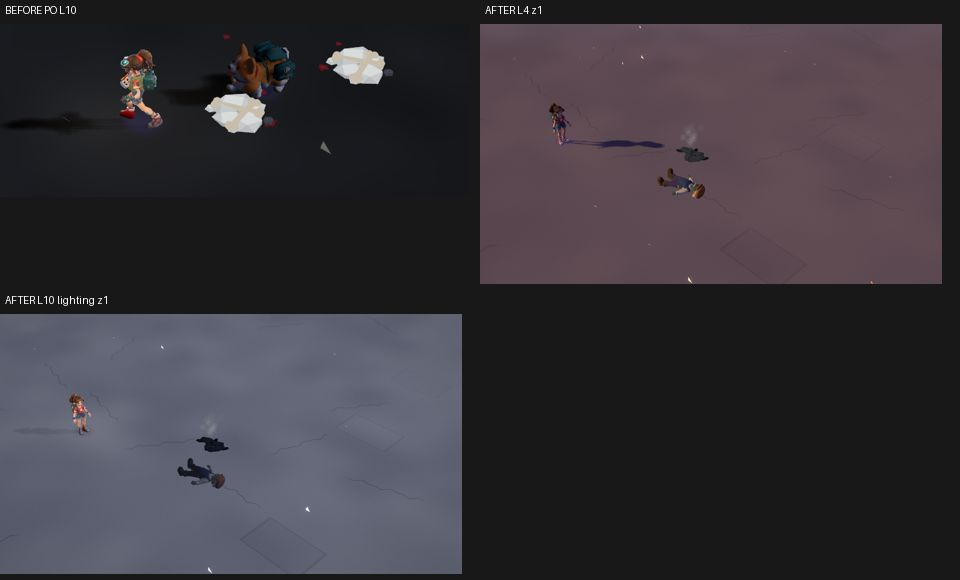
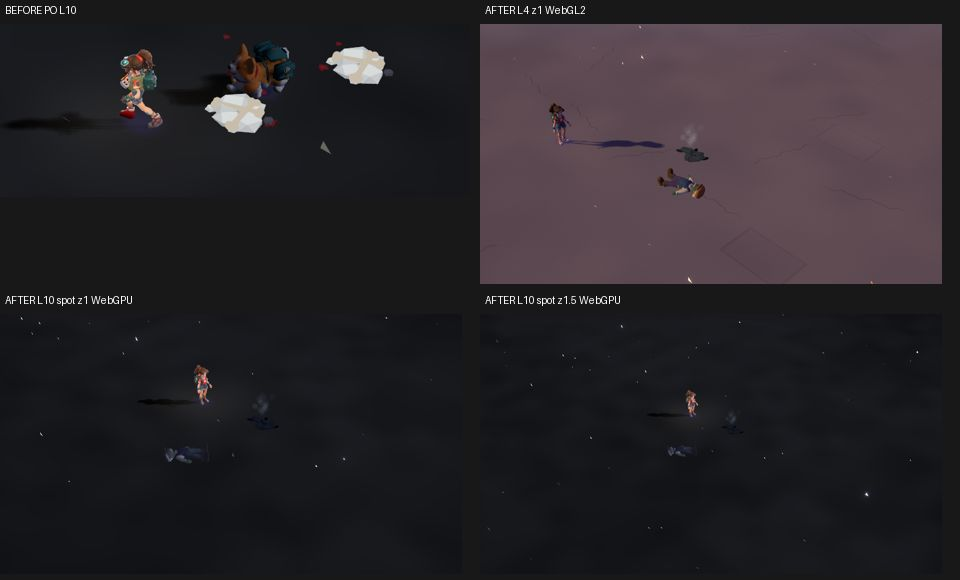
Include L10 location comparisons in sheet

diff --git a/docs/reports/s207-ashfix/README.md b/docs/reports/s207-ashfix/README.md
@@ -45,3 +45,5 @@ Checkpoint investigation: `cure-pace-15` is generated by `curePaceCheckpoints` i
 Further investigation explains the loader failure: `Mission.loadCheckpoint` reconstructs checkpoints by completing authored objectives, whereas pace checkpoints are created dynamically by the movement controller. The direct Scene Lab loader therefore cannot reconstruct `cure-pace-15` merely from its name; a captured native resume or a route run is needed to verify that saved state.
 
 A native complete-policy L10 route was run with `node --import tsx tools/qa/make-checkpoint.ts --out /tmp/s207-native-saves --what l10 --max-l10 1800`. It exited successfully after writing ten saves through `cure-pace-3`; it did not reach `cure-pace-15`. The requested real checkpoint capture therefore remains open. Generated saves are temporary and were not committed.
+
+The sheet now includes both L10-coordinate fixture zooms as well as the daylight comparison. The route generator's manifest shows the last pace checkpoint at tick 7,321, with a live save at tick 8,521; the configured 1,800 simulated seconds ended without another checkpoint. A longer native route or an appropriate captured resume is needed to reproduce the actual pace-15 state.
